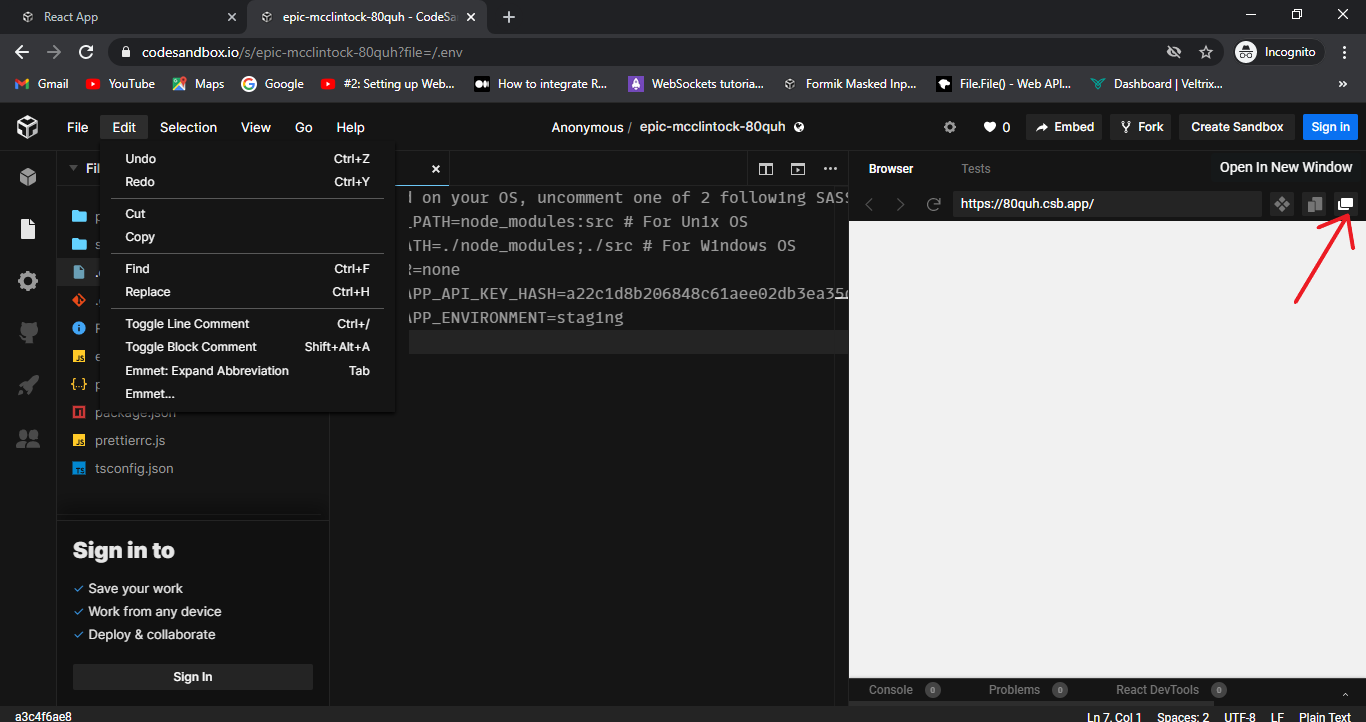
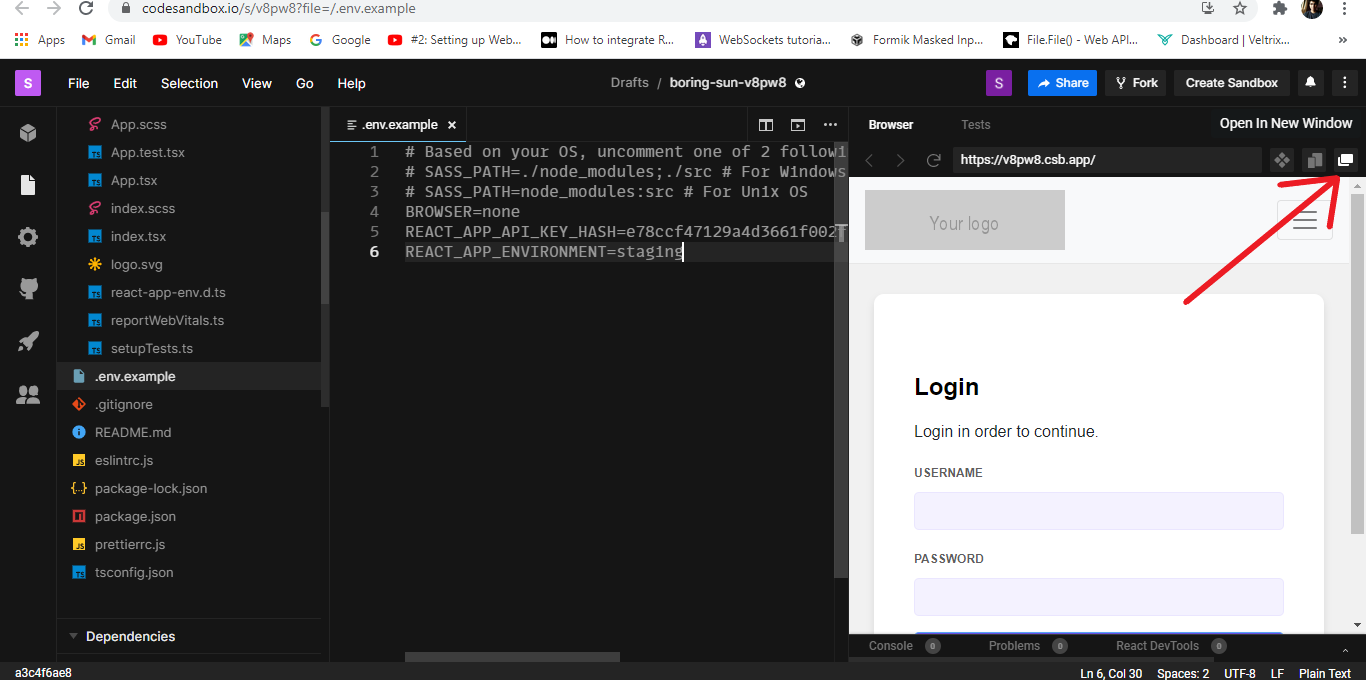
Changes

diff --git a/Instructions.md b/Instructions.md
@@ -8,7 +8,7 @@ Visit this [link](https://affinity-onboarding-frontend.staging.affinity-project.
 
 ![](https://github.com/affinityproject/vcms-browser-app/blob/shubham/instructions/apikey.JPG?raw=true)
 
-Enter an unique username and click on Signup. You will get an API key and an API hash key. Store these keys somewhere safe where you wont loose it.
+Enter an unique username and click on Signup. You will get an API key and an API hash key. Store these keys somewhere safe where you wont loose it. We only need API hash key.
 
 ![](https://github.com/affinityproject/vcms-browser-app/blob/shubham/instructions/apikey2.JPG?raw=true)
 
@@ -16,15 +16,15 @@ Enter an unique username and click on Signup. You will get an API key and an API
 
 Visit this [link](https://v8pw8.csb.app/). It will redirect you to a codesandbox project.
 
-![](https://github.com/affinityproject/vcms-browser-app/blob/shubham/instructions/codesandboxproject.JPG?raw=true)
-
 Click on the "Open Sandbox" button on the bottom right corner. You will be redirected to codesandbox editor.
+
+![](https://github.com/affinityproject/vcms-browser-app/blob/shubham/instructions/codesandboxproject.png?raw=true)
 
 ![](https://github.com/affinityproject/vcms-browser-app/blob/shubham/instructions/codesandboxeditor.JPG?raw=true)
 
 ### Step 3
 
-Scroll throught the folder structure on left and open the `.env` file. Replace the `REACT_APP_API_KEY_HASH` attribute with your API Key Hash that you received in `Step 1`.
+Scroll throught the folder structure on left and open the `.env.example` file. Rename it to `.env`. Replace the `REACT_APP_API_KEY_HASH` attribute with your API Key Hash that you received in `Step 1`.
 
 Save the `.env` file. Once you save, codesandbox creates a new link of the project.
 
@@ -36,12 +36,22 @@ Now click on the `Open in New Window` button. This will run your newly created p
 
 ### Step 4
 
-Now you will have to sign up and create a account. You will be redirected to the dashboard after successfully creating your account.
+Now you will have to sign up and create a account. The checkbox of terms and conditions is just a placeholder. We currently dont have any Terms and Conditions. You will be redirected to the dashboard after successfully creating your account.
 
 ![](https://github.com/affinityproject/vcms-browser-app/blob/shubham/instructions/signup.JPG?raw=true)
+
+Issuer - An entity that issues a credential. Eg: a test management facility like a hospital that issues a patient record like “Covid -ve“. Issuer has the right to revoke a credential
+
+Verifier - An entity that verifies if the credential shared by a holder is valid (i.e. if the credential comes from a trusted issuer, not revoked by the issuer). Eg: An access management system installed at a facility like airport that allows / denies access based on if the holder is covid -ve/+ve. Verification could be a combination business logic like “is the credential is issued in the last 14 days” and “is it issued by an issuer that is recognized“
+
+Holder - An entity that has lifecycle control over the issued credentials like sharing, deleting. Eg: A patient that holds a credential issued by an issuer on their wallet (a wallet could be an app that stores users credential data locally or a custodial wallet managed on behalf of a holder)
 
 ![](https://github.com/affinityproject/vcms-browser-app/blob/shubham/instructions/dashboard.JPG?raw=true)
 
 Next you have to click on the `Issue unsigned VC` button under the `ISSUER` column. And now you have your very own `Verifiable Credential`. You can follow the steps mentioned in the app to Sign, Store and Verify your VC.
 
 ![](https://github.com/affinityproject/vcms-browser-app/blob/shubham/instructions/vccreated.JPG?raw=true)
+
+All stored VCs attached to a user account will be loaded and rendered on successful user login.
+
+## Conclusion
